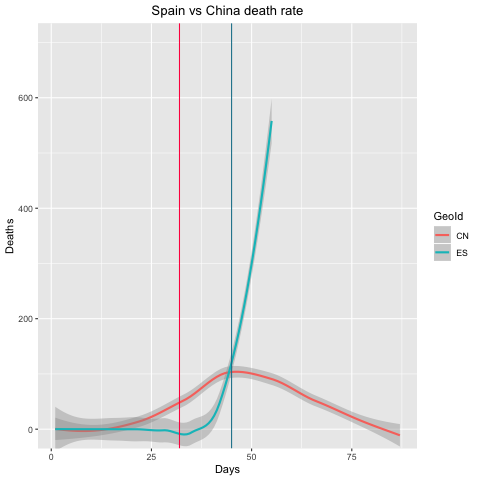
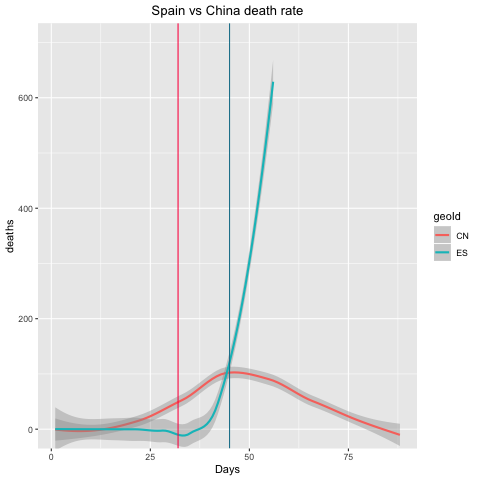
update of the day change of variables names due to change in the data source... again...

diff --git a/README.md b/README.md
@@ -9,18 +9,18 @@ I'll keep this repo with the graphs daily updated.
 ### Updated World Values
 __Total Deaths per Country - worst 10__
 
-|GeoId | Deaths|
+|geoId | deaths|
 |:-----|------:|
-|IT    |   7505|
-|ES    |   3434|
-|CN    |   3293|
-|IR    |   2077|
-|FR    |   1331|
-|US    |   1050|
-|UK    |    422|
-|NL    |    356|
-|DE    |    198|
-|BE    |    178|
+|IT    |   8165|
+|ES    |   4089|
+|CN    |   3298|
+|IR    |   2234|
+|FR    |   1696|
+|US    |   1296|
+|UK    |    578|
+|NL    |    434|
+|DE    |    253|
+|BE    |    220|
 
 
 ### Files
